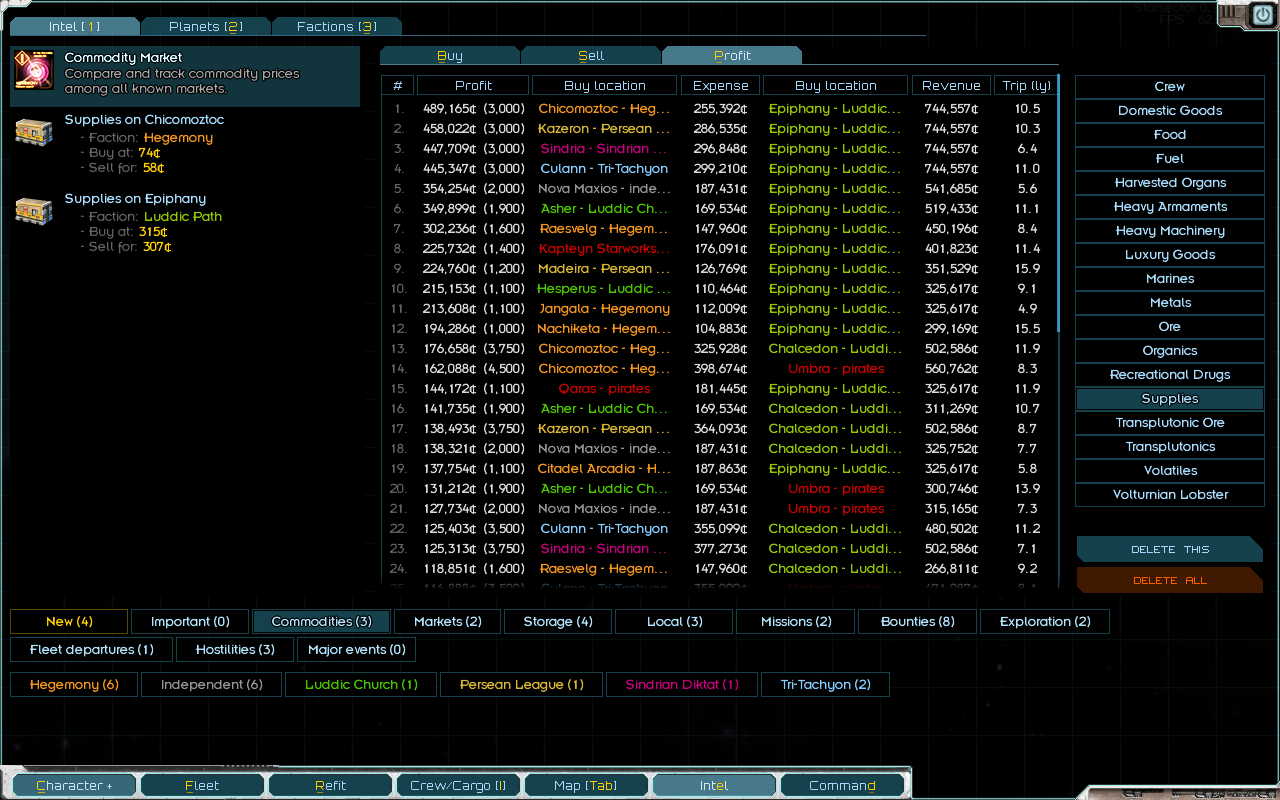
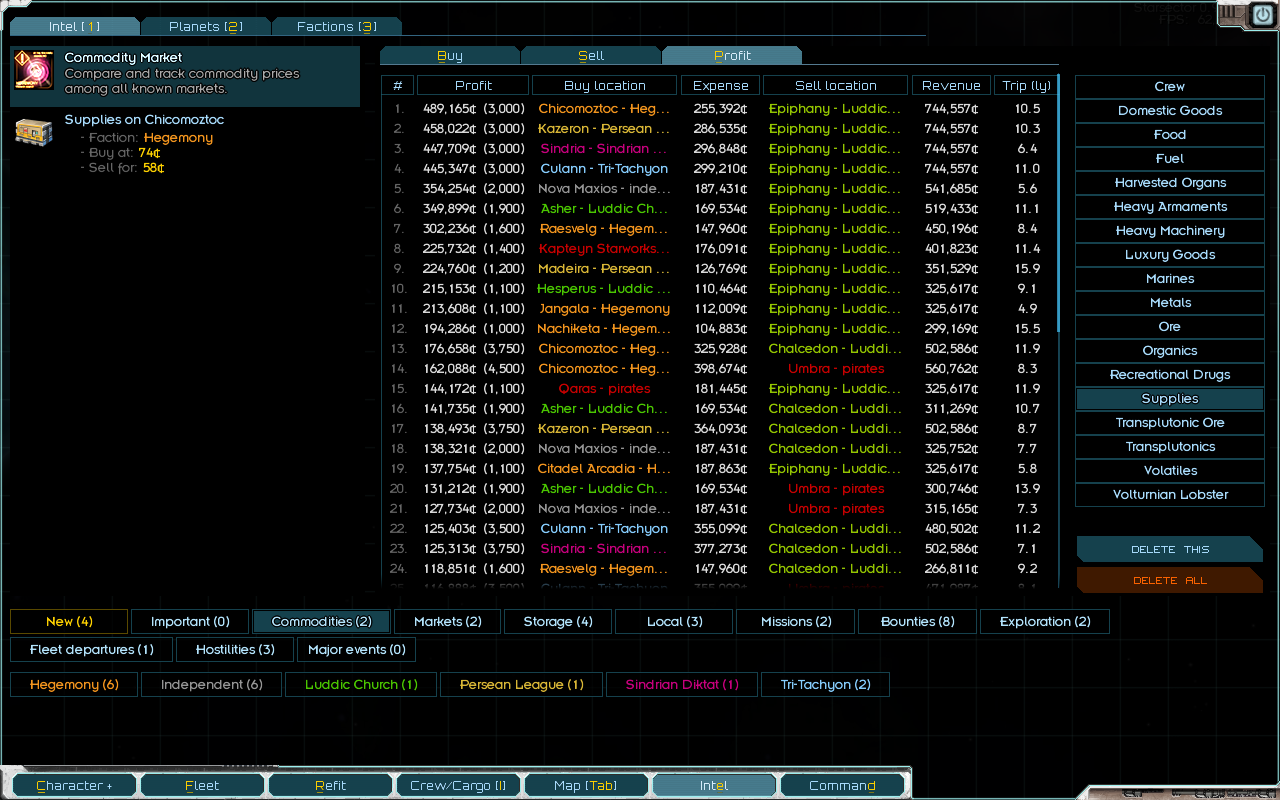
bugfix

Changed region(s): [[0.0, 0.2188, 0.1875, 0.3125], [0.0, 0.9688, 0.125, 1.0]]

diff --git a/src/stelnet/board/commodity/table/ProfitTableContent.java b/src/stelnet/board/commodity/table/ProfitTableContent.java
@@ -30,7 +30,7 @@ public class ProfitTableContent extends ProfitCalculator implements TableContent
             .22f * width,
             L10n.get(CommodityL10n.HEADER_BUY_EXPENSE),
             .12f * width,
-            L10n.get(CommodityL10n.HEADER_BUY_LOCATION),
+            L10n.get(CommodityL10n.HEADER_SELL_LOCATION),
             .22f * width,
             L10n.get(CommodityL10n.HEADER_SELL_REVENUE),
             .12f * width,
